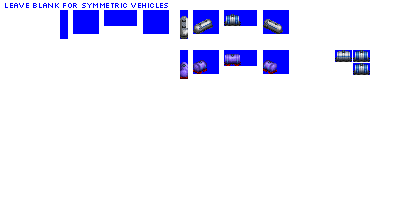
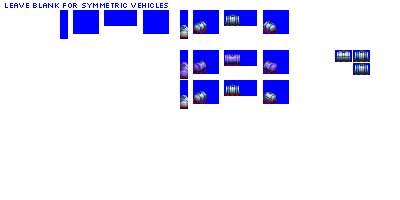
Change: sprites complete for gen 5A edibles tank car

Changed region(s): [[0.45, 0.39, 0.72, 0.57], [0.45, 0.06, 0.54, 0.21], [0.66, 0.09, 0.72, 0.18]]

diff --git a/src/vehicles/edibles_tank_cars.py b/src/vehicles/edibles_tank_cars.py
@@ -57,7 +57,8 @@ def main():
     consist = EdiblesTankCarConsist(roster='pony',
                                     base_numeric_id=1210,
                                     gen=5,
-                                    subtype='A')
+                                    subtype='A',
+                                    sprites_complete=True)
 
     consist.add_unit(type=FreightCar,
                      vehicle_length=4,
